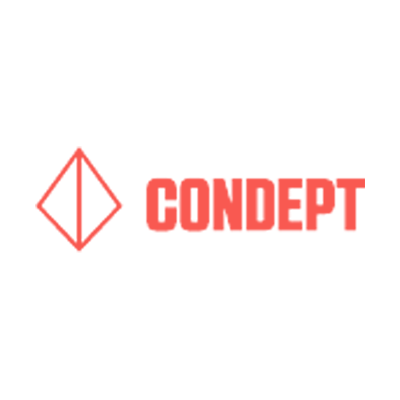
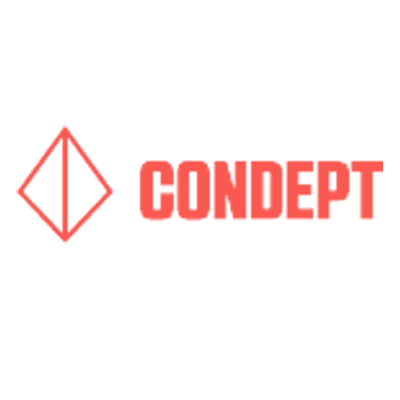
Partnerimages and first try w/ flexbox

Changed region(s): [[0.33, 0.39, 0.96, 0.6], [0.03, 0.3, 0.3, 0.63]]

diff --git a/src/Components/TargetAudience/PartnerComponent.js b/src/Components/TargetAudience/PartnerComponent.js
@@ -1,0 +1,35 @@
+import React, { Component } from 'react'
+import './PartnerComponent.css';
+
+export default class PartnerComponent extends Component {
+    render() {
+        return (
+            <div className="container">
+            <h2>A selection of our partners that we enjoy working with:</h2>
+                <div className="row">
+                    <div class="column">
+                        <img alt="chickie" className="img img-responsive" src={require('../../images/partners/png/1_ace.png')}></img>
+                        <img alt="chickie" className="img img-responsive" src={require('../../images/partners/png/2_condept.png')}></img>
+                    </div>
+                    <div class="column">
+                        <img alt="chickie" className="img img-responsive" src={require('../../images/partners/png/3_frontmen.png')}></img>
+                        <img alt="chickie" className="img img-responsive" src={require('../../images/partners/png/4_jalt.png')}></img>
+                    </div>
+                    <div class="column">
+                        <img alt="chickie" className="img img-responsive" src={require('../../images/partners/png/5_mywheels.png')}></img>
+                        <img alt="chickie" className="img img-responsive" src={require('../../images/partners/png/6_rauweboon.png')}></img>
+                    </div>
+                    <div class="column">
+                        <img alt="chickie" className="img img-responsive" src={require('../../images/partners/png/7_srxp.png')}></img>
+                        <img alt="chickie" className="img img-responsive" src={require('../../images/partners/png/8_uva.png')}></img>
+                    </div>
+                </div>
+                <div className="flexcontainer">
+                    <img alt="chickie" src={require('../../images/partners/png/9_uw.png')}></img>
+                    {/* <h3>Boodschap!</h3> */}
+                </div>
+
+            </div>
+        )
+    }
+}

diff --git a/src/Components/TargetAudience/PartnerComponent.scss b/src/Components/TargetAudience/PartnerComponent.scss
@@ -1,0 +1,60 @@
+.row {
+    display: -ms-flexbox; /* IE10 */
+    display: flex;
+    -ms-flex-wrap: wrap; /* IE10 */
+    flex-wrap: wrap;
+    padding: 0 4px;
+}
+
+/* Create four equal columns that sits next to each other */
+.column {
+    -ms-flex: 25%; /* IE10 */
+    flex: 25%;
+    max-width: 25%;
+    padding: 0 4px;
+    &-third{
+        -ms-flex: 25%;
+        flex: 37.5%;
+        max-width: 100%;
+        justify-content: center;
+        img{
+            align-self: center;
+        }
+    }
+}
+
+.column img {
+    margin-top: 8px;
+    vertical-align: middle;
+}
+
+/* Responsive layout - makes a two column-layout instead of four columns */
+@media (max-width: 100px) {
+    .column {
+        -ms-flex: 50%;
+        flex: 50%;
+        max-width: 50%;
+    }
+    .flexcontainer{
+        img{
+            max-width: 50%;
+        }
+    }
+}
+
+
+.flexcontainer {
+    display: flex;
+    justify-content: center;
+    /* align horizontal */
+    align-items: center;
+    /* align vertical */
+    width: 100%;
+    img{
+        max-width: 25%;
+    }
+}
+
+h2{
+    color:#000;
+}

diff --git a/src/Components/TargetAudience/PartnerComponent.css b/src/Components/TargetAudience/PartnerComponent.css
@@ -1,0 +1,49 @@
+.row {
+  display: -ms-flexbox;
+  /* IE10 */
+  display: flex;
+  -ms-flex-wrap: wrap;
+  /* IE10 */
+  flex-wrap: wrap;
+  padding: 0 4px; }
+
+/* Create four equal columns that sits next to each other */
+.column {
+  -ms-flex: 25%;
+  /* IE10 */
+  flex: 25%;
+  max-width: 25%;
+  padding: 0 4px; }
+  .column-third {
+    -ms-flex: 25%;
+    flex: 37.5%;
+    max-width: 100%;
+    justify-content: center; }
+    .column-third img {
+      align-self: center; }
+
+.column img {
+  margin-top: 8px;
+  vertical-align: middle; }
+
+/* Responsive layout - makes a two column-layout instead of four columns */
+@media (max-width: 100px) {
+  .column {
+    -ms-flex: 50%;
+    flex: 50%;
+    max-width: 50%; }
+  .flexcontainer img {
+    max-width: 50%; } }
+
+.flexcontainer {
+  display: flex;
+  justify-content: center;
+  /* align horizontal */
+  align-items: center;
+  /* align vertical */
+  width: 100%; }
+  .flexcontainer img {
+    max-width: 25%; }
+
+h2 {
+  color: #000; }

diff --git a/src/Components/TargetAudience/TargetAudienceComponent.js b/src/Components/TargetAudience/TargetAudienceComponent.js
@@ -3,6 +3,7 @@ import DeveloperInformationComponent from './DeveloperInformation/DeveloperInfor
 import CompanyInformationComponent from './CompanyInformation/CompanyInformationComponent';
 import FormComponent from './FormComponent';
 import StepsComponent from './StepsComponent';
+import PartnerComponent from './PartnerComponent';
 /**
  * @author Bart Ziengs 1-12
  * DeveloperComponent for rendering information and steps
@@ -20,6 +21,9 @@ class TargetAudienceComponent extends Component {
                         </div>
                         <div>
                             <StepsComponent />
+                        </div>
+                        <div>
+                            <PartnerComponent />
                         </div>
                         <div>
                             <FormComponent />
